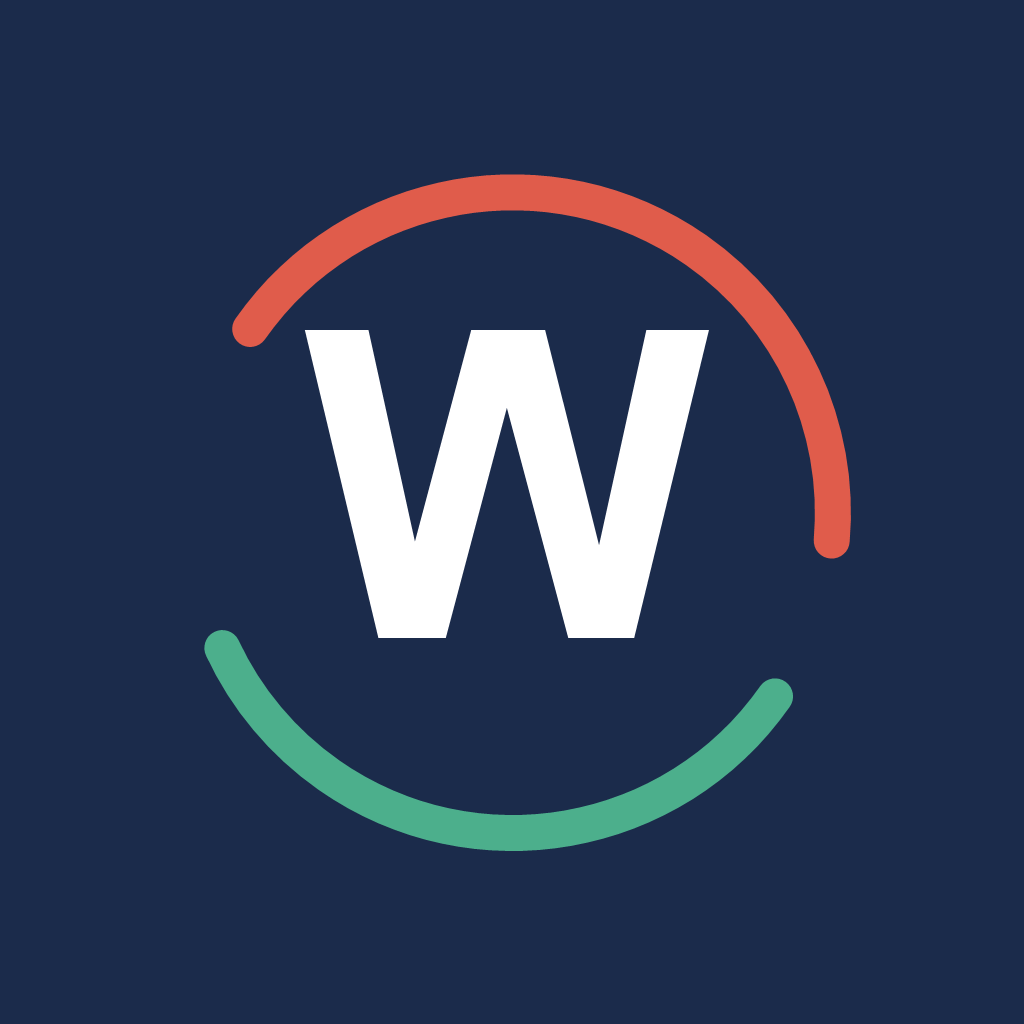
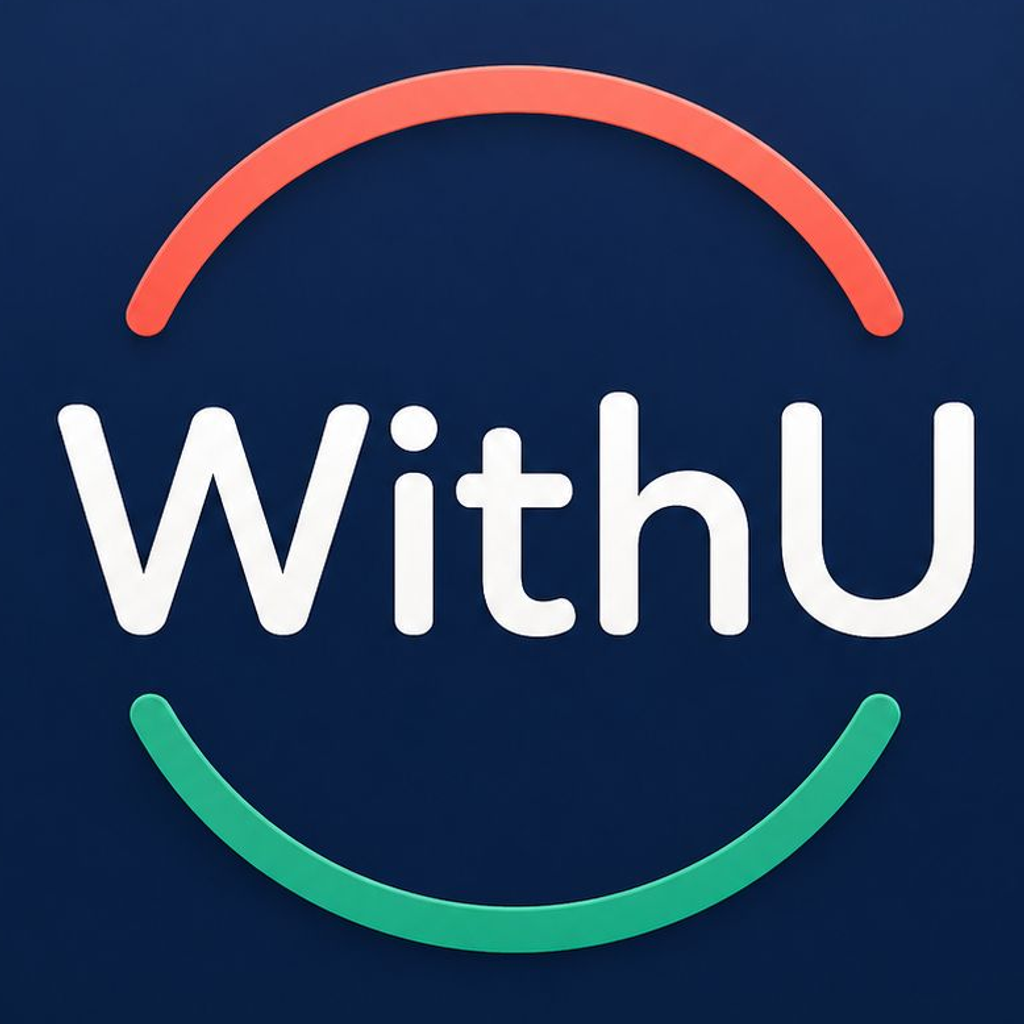
Refresh WithU branding assets

Changed region(s): [[0.0312, 0.1562, 0.9688, 0.9375], [0.125, 0.0625, 0.9062, 0.3438]]

diff --git a/app/verify.tsx b/app/verify.tsx
@@ -6,6 +6,7 @@ import {
   TextInput,
   Pressable,
   Alert,
+  Image,
   KeyboardAvoidingView,
   Platform,
 } from 'react-native';
@@ -81,10 +82,11 @@ export default function VerifyScreen() {
       behavior={Platform.OS === 'ios' ? 'padding' : undefined}
     >
       <View style={styles.inner}>
-        <View style={styles.logoRow}>
-          <Text style={styles.logoWith}>With</Text>
-          <Text style={styles.logoU}>U</Text>
-        </View>
+        <Image
+          source={require('../assets/images/withu-brand-logo.png')}
+          style={styles.brandLogo}
+          resizeMode="contain"
+        />
 
         <View style={styles.card}>
           <Text style={styles.title}>Ange din kod</Text>
@@ -161,6 +163,13 @@ const styles = StyleSheet.create({
     flex: 1,
     justifyContent: 'center',
     padding: 24,
+  },
+  brandLogo: {
+    width: 118,
+    height: 118,
+    borderRadius: 30,
+    marginBottom: 34,
+    alignSelf: 'center',
   },
   logoRow: {
     flexDirection: 'row',

diff --git a/app/register.tsx b/app/register.tsx
@@ -2,6 +2,7 @@ import React, { useMemo, useState } from 'react';
 import {
   ActivityIndicator,
   Alert,
+  Image,
   KeyboardAvoidingView,
   Platform,
   Pressable,
@@ -76,10 +77,11 @@ export default function RegisterScreen() {
       >
         <View style={styles.inner}>
           <View style={styles.hero}>
-            <View style={styles.logoRow}>
-              <Text style={styles.logoWith}>With</Text>
-              <Text style={styles.logoU}>U</Text>
-            </View>
+            <Image
+              source={require('../assets/images/withu-brand-logo.png')}
+              style={styles.brandLogo}
+              resizeMode="contain"
+            />
 
             <Text style={styles.tagline}>Du är aldrig ensam.</Text>
           </View>
@@ -229,6 +231,13 @@ const styles = StyleSheet.create({
   hero: {
     alignItems: 'center',
     marginBottom: 28,
+  },
+
+  brandLogo: {
+    width: 112,
+    height: 112,
+    borderRadius: 28,
+    marginBottom: 10,
   },
 
   logoRow: {

diff --git a/app/login.tsx b/app/login.tsx
@@ -2,6 +2,7 @@ import React, { useMemo, useState } from 'react';
 import {
   ActivityIndicator,
   Alert,
+  Image,
   KeyboardAvoidingView,
   Platform,
   Pressable,
@@ -58,10 +59,11 @@ export default function LoginScreen() {
       >
         <View style={styles.inner}>
           <View style={styles.hero}>
-            <View style={styles.logoRow}>
-              <Text style={styles.logoWith}>With</Text>
-              <Text style={styles.logoU}>U</Text>
-            </View>
+            <Image
+              source={require('../assets/images/withu-brand-logo.png')}
+              style={styles.brandLogo}
+              resizeMode="contain"
+            />
 
             <Text style={styles.tagline}>Du är aldrig ensam.</Text>
           </View>
@@ -172,6 +174,13 @@ const styles = StyleSheet.create({
   hero: {
     alignItems: 'center',
     marginBottom: 28,
+  },
+
+  brandLogo: {
+    width: 112,
+    height: 112,
+    borderRadius: 28,
+    marginBottom: 10,
   },
 
   logoRow: {

diff --git a/app/reset-password.tsx b/app/reset-password.tsx
@@ -2,6 +2,7 @@ import React, { useEffect, useMemo, useState } from 'react';
 import {
   ActivityIndicator,
   Alert,
+  Image,
   KeyboardAvoidingView,
   Platform,
   Pressable,
@@ -229,7 +230,11 @@ export default function ResetPasswordScreen() {
       >
         <View style={styles.inner}>
           <View style={styles.hero}>
-            <Text style={styles.logo}>WithU</Text>
+            <Image
+              source={require('../assets/images/withu-brand-logo.png')}
+              style={styles.brandLogo}
+              resizeMode="contain"
+            />
             <Text style={styles.heroSubtitle}>Återställ lösenord</Text>
           </View>
 
@@ -380,6 +385,13 @@ const styles = StyleSheet.create({
   hero: {
     alignItems: 'center',
     marginBottom: 28,
+  },
+
+  brandLogo: {
+    width: 112,
+    height: 112,
+    borderRadius: 28,
+    marginBottom: 10,
   },
 
   logo: {

diff --git a/app/forgot-password.tsx b/app/forgot-password.tsx
@@ -2,6 +2,7 @@ import React, { useMemo, useState } from 'react';
 import {
   ActivityIndicator,
   Alert,
+  Image,
   KeyboardAvoidingView,
   Platform,
   Pressable,
@@ -64,7 +65,11 @@ export default function ForgotPasswordScreen() {
       >
         <View style={styles.inner}>
           <View style={styles.hero}>
-            <Text style={styles.logo}>WithU</Text>
+            <Image
+              source={require('../assets/images/withu-brand-logo.png')}
+              style={styles.brandLogo}
+              resizeMode="contain"
+            />
             <Text style={styles.heroSubtitle}>Glömt lösenord</Text>
           </View>
 
@@ -142,6 +147,13 @@ const styles = StyleSheet.create({
   hero: {
     alignItems: 'center',
     marginBottom: 28,
+  },
+
+  brandLogo: {
+    width: 112,
+    height: 112,
+    borderRadius: 28,
+    marginBottom: 10,
   },
 
   logo: {

diff --git a/app.config.js b/app.config.js
@@ -29,7 +29,7 @@ module.exports = () => ({
   },
   android: {
     adaptiveIcon: {
-      backgroundColor: '#1B2B4B',
+      backgroundColor: '#0D2346',
       foregroundImage: './assets/images/android-icon-foreground.png',
       backgroundImage: './assets/images/android-icon-background.png',
       monochromeImage: './assets/images/android-icon-monochrome.png',
@@ -67,11 +67,11 @@ module.exports = () => ({
       'expo-splash-screen',
       {
         image: './assets/images/splash-icon.png',
-        imageWidth: 200,
+        imageWidth: 240,
         resizeMode: 'contain',
-        backgroundColor: '#1B2B4B',
+        backgroundColor: '#0D2346',
         dark: {
-          backgroundColor: '#1B2B4B',
+          backgroundColor: '#0D2346',
         },
       },
     ],

diff --git a/src/components/withu/WithUPrimitives.tsx b/src/components/withu/WithUPrimitives.tsx
@@ -75,9 +75,11 @@ export function WithUPage({ children, style }: ContainerProps) {
 
 export function WithULogo() {
   return (
-    <Text style={styles.logoText}>
-      With<Text style={styles.logoAccent}>U</Text>
-    </Text>
+    <Image
+      source={require('../../../assets/images/withu-brand-logo.png')}
+      style={styles.logoImage}
+      resizeMode="contain"
+    />
   );
 }
 
@@ -265,6 +267,11 @@ const styles = StyleSheet.create({
   },
   logoAccent: {
     color: withuColors.coral,
+  },
+  logoImage: {
+    width: 72,
+    height: 72,
+    borderRadius: 18,
   },
 
   topBar: {
